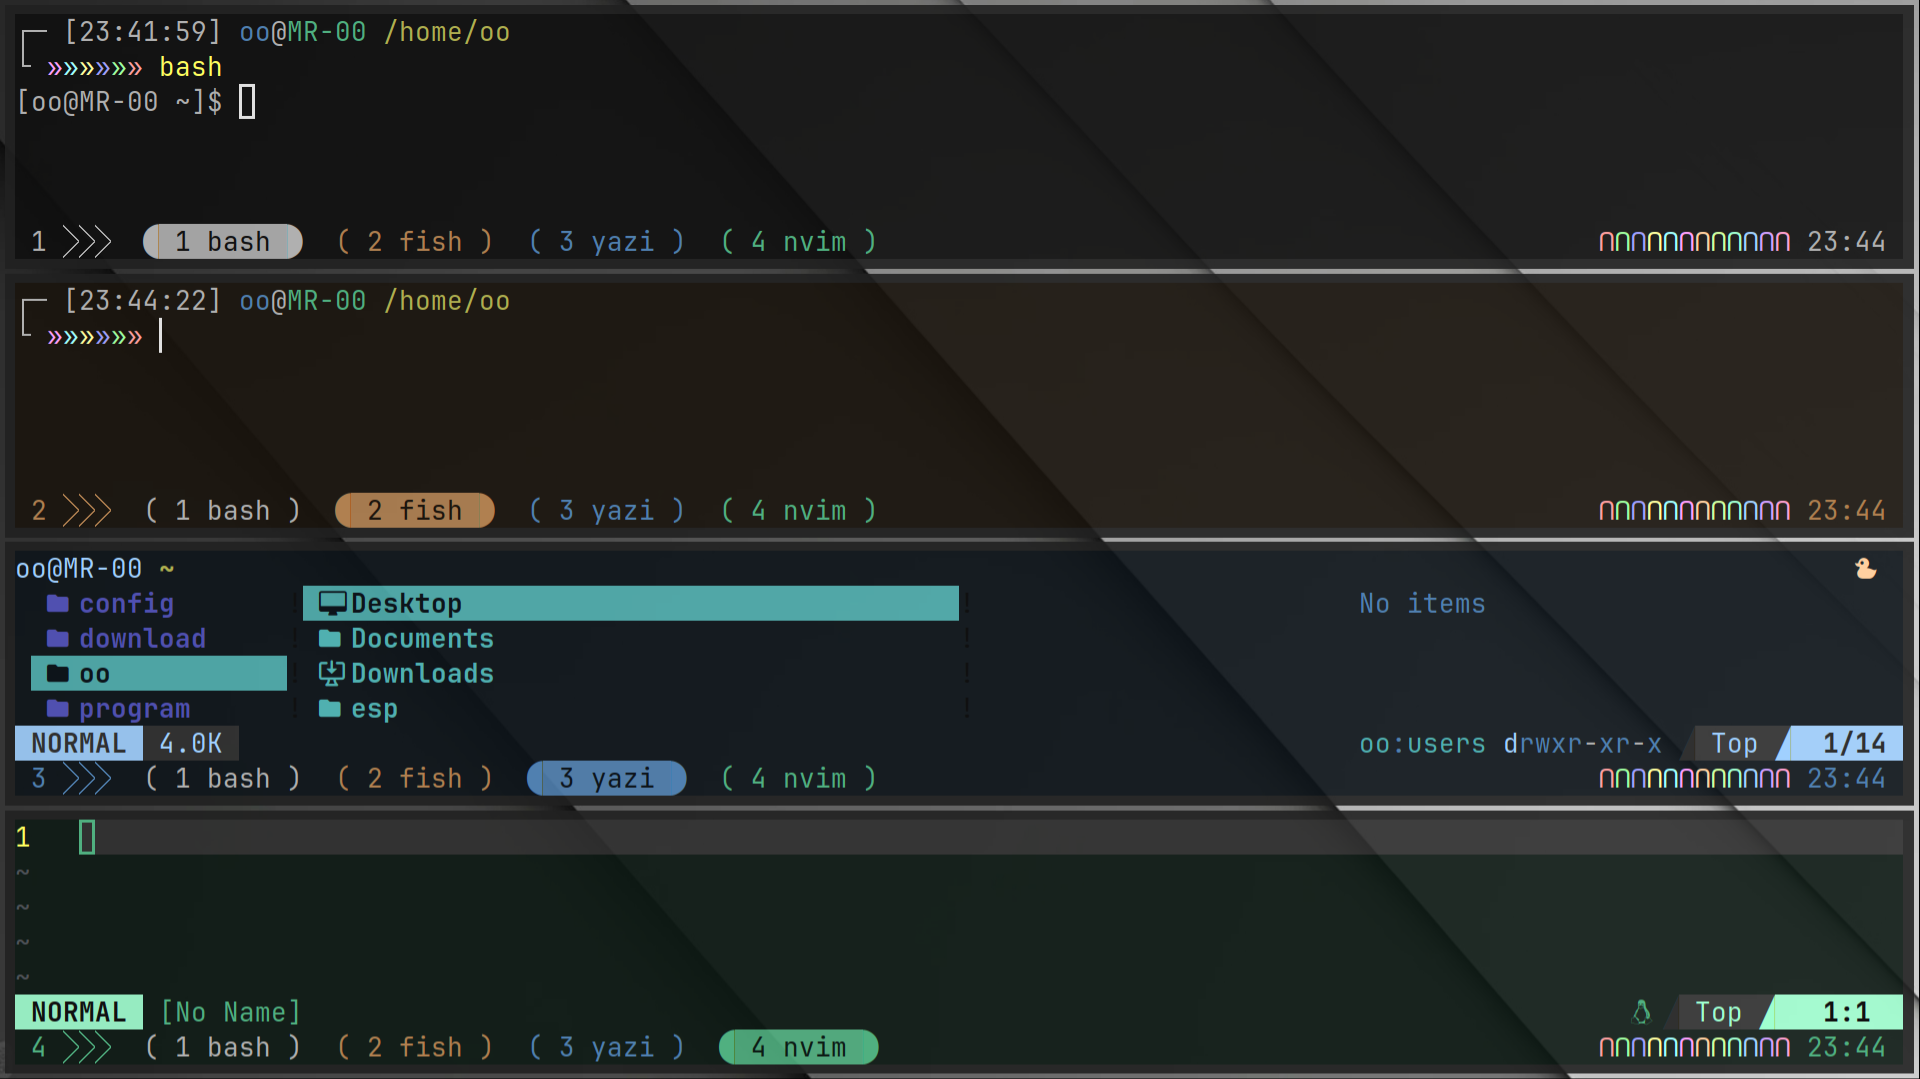
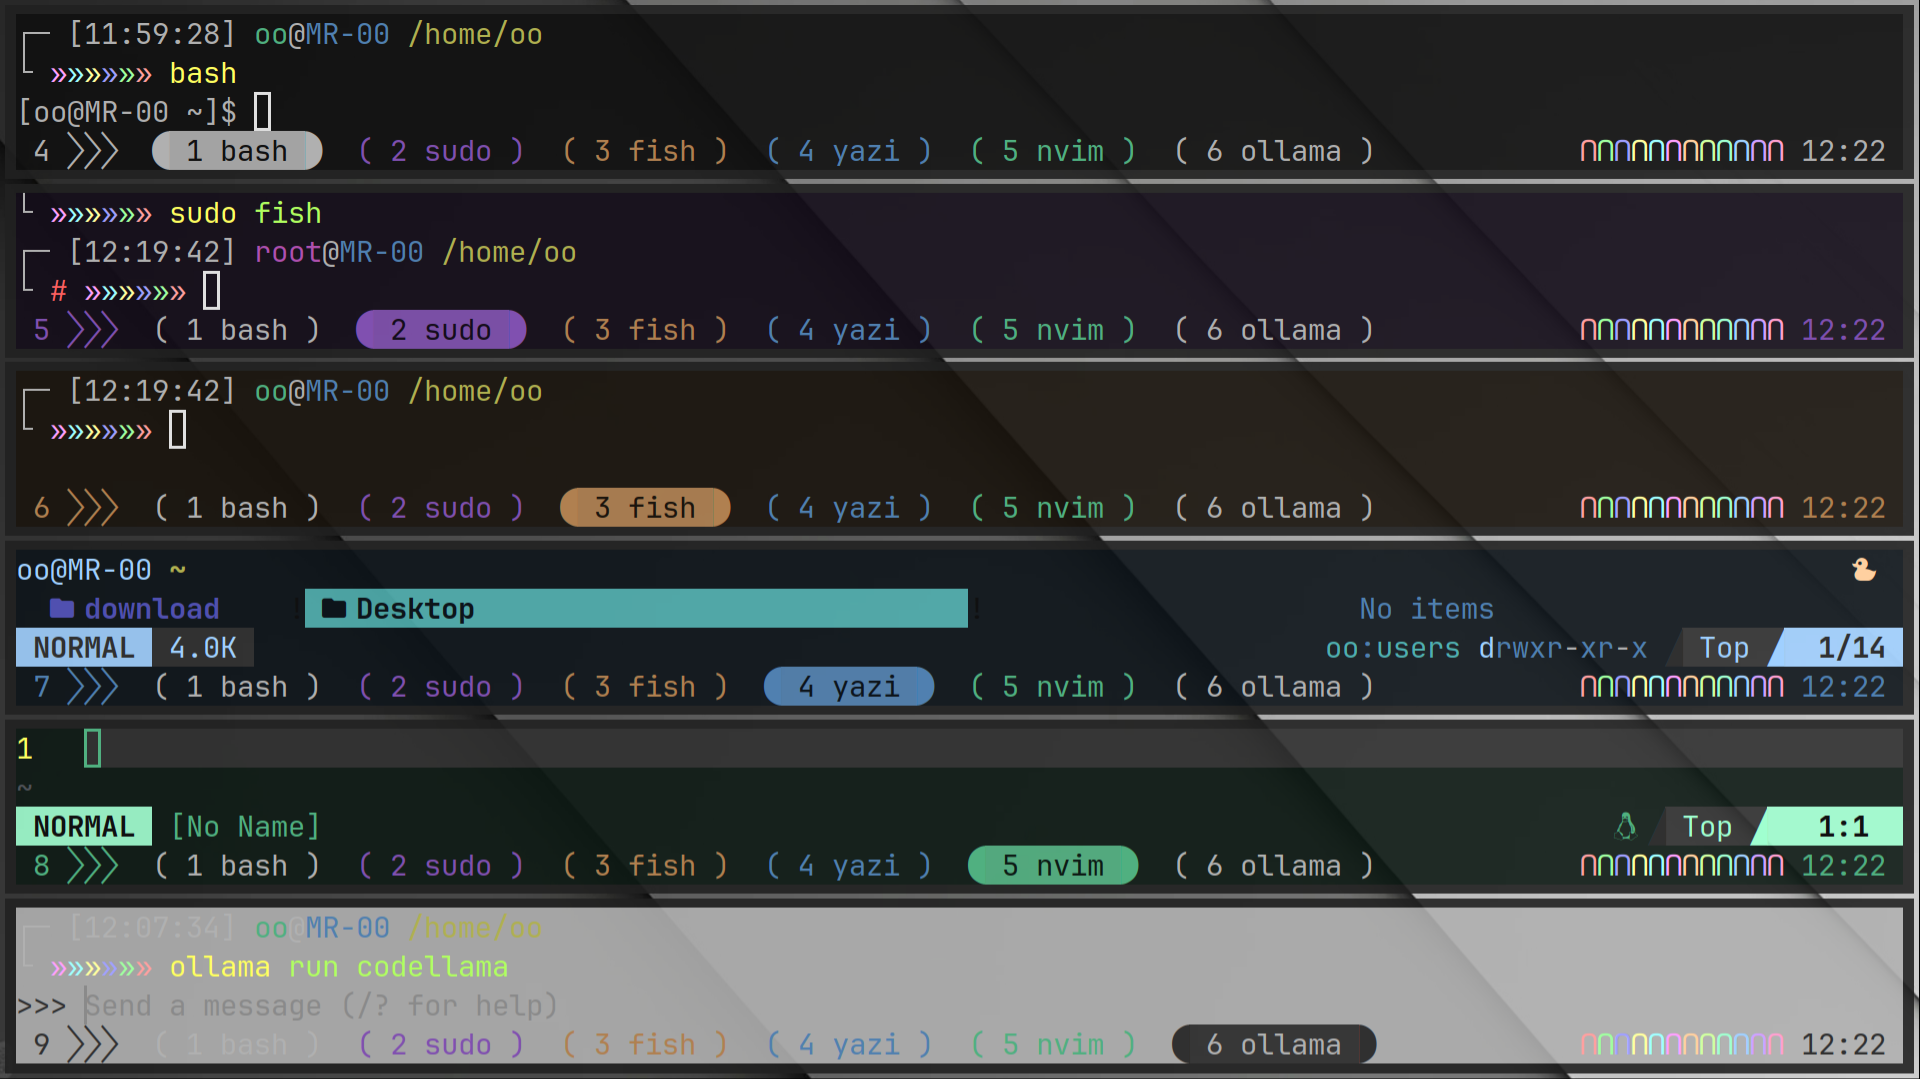
20241205_124054

diff --git a/README.md b/README.md
@@ -118,8 +118,8 @@ sudo \
   #140d1a #140d1a #140d1a #140d1a #140d1a #140d1a  \  
   \n\  
 fish \  
-  #50b0b0 #30d0d0 #50b0b0 #50b0b0 #50b0b0 #50b0b0 #50b0b0 \  
-  #0d1a1a #0d1a1a #0d1a1a #0d1a1a #0d1a1a #0d1a1a  \  
+  #b08050 #d08030 #b08050 #b08050 #b08050 #b08050 #b08050 \  
+  #1a140d #1a140d #1a140d #1a140d #1a140d #1a140d  \  
   \n\  
 yazi \  
   #5080b0 #3080d0 #5080b0 #5080b0 #5080b0 #5080b0 #5080b0 \  
@@ -153,7 +153,7 @@ Your app, Your rule. Feel free to modify the files.
 & some personal preference settings inside the plugin, change it to your own.  
 - dark  grey     `#101010` as the bg color for common commands.  
 - dark  violet   `#140d1a` as the bg color for root,     like `sudo`.  
-- dark  cyan     `#0d1a1a` as the bg color for shell,    like `fish`.  
+- dark  orange   `#1a140d` as the bg color for shell,    like `fish`.  
 - dark  skyblue  `#0d141a` as the bg color for explorer, like `yazi`.  
 - dark  seagreen `#0d1a14` as the bg color for editor,   like `nvim`.  
 - light grey     `#b0b0b0` as the bg color for ai-tool,  like `ollama`.  
@@ -167,9 +167,9 @@ Your app, Your rule. Feel free to modify the files.
 & 一些在插件内部的个人喜好设定，更换为你的喜好。  
 - 深灰色 `#101010` 作为普通命令的背景色。  
 - 深紫色 `#140d1a` 作为高级用户   `sudo`   的背景色。  
-- 深青色 `#0d1a1a` 作为命令解析器 `fish`   的背景色。  
-- 深蓝色 `#0d141a` 作为文件管理器 `yazi`   的背景色。  
-- 深绿色 `#0d1a14` 作为文本编辑器 `nvim`   的背景色。  
+- 深橙色 `#1a140d` 作为命令解析器 `fish`   的背景色。  
+- 深天蓝 `#0d141a` 作为文件管理器 `yazi`   的背景色。  
+- 深海绿 `#0d1a14` 作为文本编辑器 `nvim`   的背景色。  
 - 浅灰色 `#b0b0b0` 作为智能工具集 `ollama` 的背景色。  
 
 ----  
